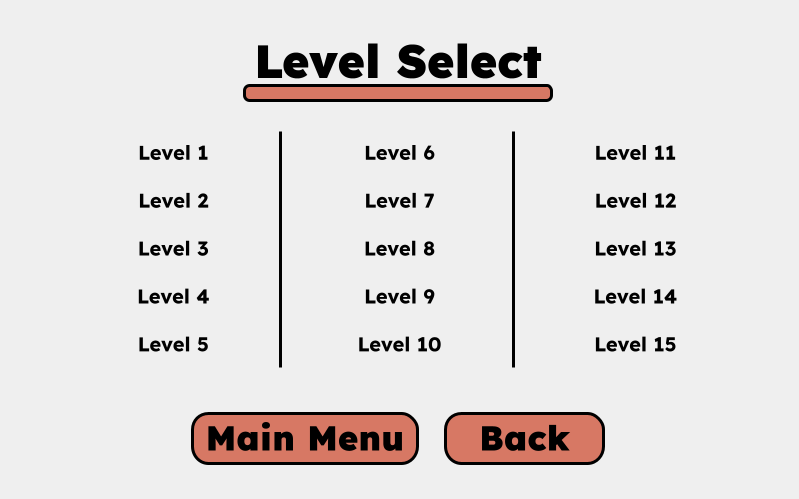
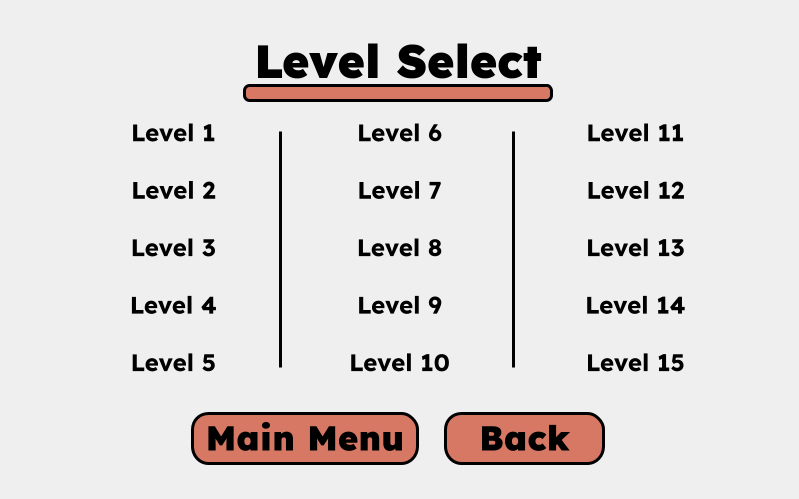
Graphical changes to LevelSelectMenu, added functionality to menus

diff --git a/main.py b/main.py
@@ -57,6 +57,12 @@ scoreTextFont = pygame.font.SysFont("timesnewroman", 23)  # Stores the font time
 
 # START - METHODS
     # START - Display Methods
+def displayLevelSelectMenu(): # Displays the level select menu
+    # Creation of the level select menu image & placing of image on the screen
+    exitGameplayMenu = pygame.image.load('Assets/LevelSelectMenu.png').convert()
+    screen.blit(exitGameplayMenu, (0, 0))
+    pygame.display.update()
+
 def displayExitGameplayMenu():  # Displays the exit menu for gameplay
     # Creation of the exit gameplay menu image & placing of image on the screen
     exitGameplayMenu = pygame.image.load('Assets/ExitToMainMenuConfirmationMenu.png').convert()
@@ -325,7 +331,6 @@ def exitGameplayMenuYesButton(event):  # Exit Gameplay Menu Yes Button
     x, y = pygame.mouse.get_pos()
     if event.type == pygame.MOUSEBUTTONDOWN:
         if (state == "exitGameplayMenu"):
-            print("X: " + str(x) + " Y: " + str(y))
             if (x > 263 and x < 343) and (y > 305 and y < 384):
                 print("Exit Gameplay Menu Yes Button Has Been Clicked")
                 return True
@@ -337,6 +342,25 @@ def exitGameplayMenuNoButton(event):  # Exit Gameplay Menu No Button
                 print("Exit Gameplay Menu No Button Has Been Clicked")
                 return True
     # STOP - Gameplay Exit Menu Buttons
+
+    # START - Level Select Menu Buttons
+def levelSelectMenuMainMenuButton(event):
+    x, y = pygame.mouse.get_pos()
+    if event.type == pygame.MOUSEBUTTONDOWN:
+        if (state == "levelSelectMenu"):
+            print("X: " + str(x) + " Y: " + str(y))
+            if (x > 190 and x < 420) and (y > 412 and y < 465):
+                print("Level Select Menu Main Menu Button Has Been Clicked")
+                return True
+
+def levelSelectMenuBackButton(event, level):
+    x, y = pygame.mouse.get_pos()
+    if event.type == pygame.MOUSEBUTTONDOWN:
+        if (state == "levelSelectMenu"):
+            if (x > 444 and x < 605) and (y > 412 and y < 465):
+                print("Level Select Menu Back Button Has Been Clicked")
+                return True
+    # STOP - Level Select Menu Buttons
 # END - METHODS
 
 
@@ -454,7 +478,6 @@ while running:  # GAME LOOP
 
                 # Exit Gameplay Menu Button Control Flow
                 if ( state == "exitGameplayMenu"):
-                    print("Yup")
                     if ( exitGameplayMenuYesButton(event) ):  # If the yes button on the exit gameplay menu has been clicked
                         state = "mainMenu"
                         displayMainMenu()
@@ -462,12 +485,22 @@ while running:  # GAME LOOP
                         state = "gamePlay"
                         displayBlankGameScreen() # REPLACE WITH CODE THAT RETURNS TO THE PREVIOUS GAME STATE
 
+                # Level Select Menu Button Control Flow
+                if ( state == "levelSelectMenu" ):
+                    if ( levelSelectMenuMainMenuButton(event) ): # Main menu button
+                        state = "mainMenu"
+                        displayMainMenu()
+                    if ( levelSelectMenuBackButton(event, level) ): # Back Button
+                        state = "gamePlay"
+                        displayBlankGameScreen()
+                        # IMPLEMENT GOING BACK TO WHATEVER LEVEL YOU WERE JUST AT!!!
+
                 # Gameplay Button Control Flow
                 if (state == "gamePlay"):
                     # LEVEL SELECT BUTTON
                     if ( levelSelectButton(event) ):  # Level Select Button
-                        state = "mainMenu"  # THIS SHOULD EVENTUALLY BE MIGRATED TO AN ACTUAL LEVEL SELECT MENU
-                        displayMainMenu()
+                        state = "levelSelectMenu"  # THIS SHOULD EVENTUALLY BE MIGRATED TO AN ACTUAL LEVEL SELECT MENU
+                        displayLevelSelectMenu()
                         break
                     # LEFT GATE BUTTONS
                     if ( leftGateUpButton(event) ):  # Left Gate Up Button (MOVING UP MEANS GOING LEFT IN THE LIST, SUBTRACTING)
